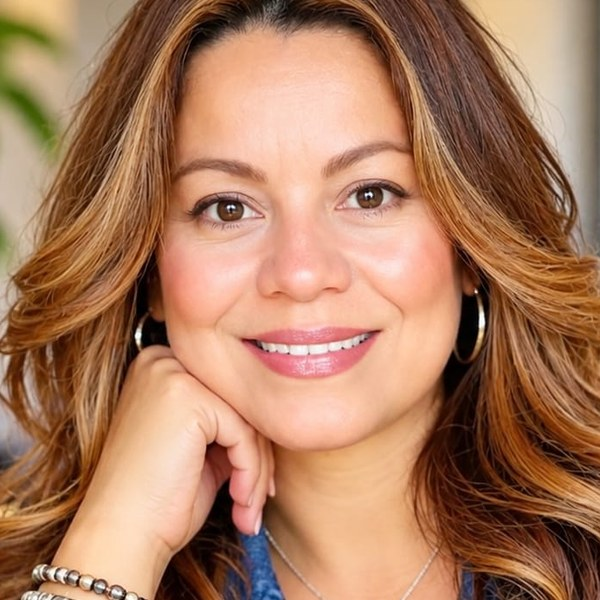
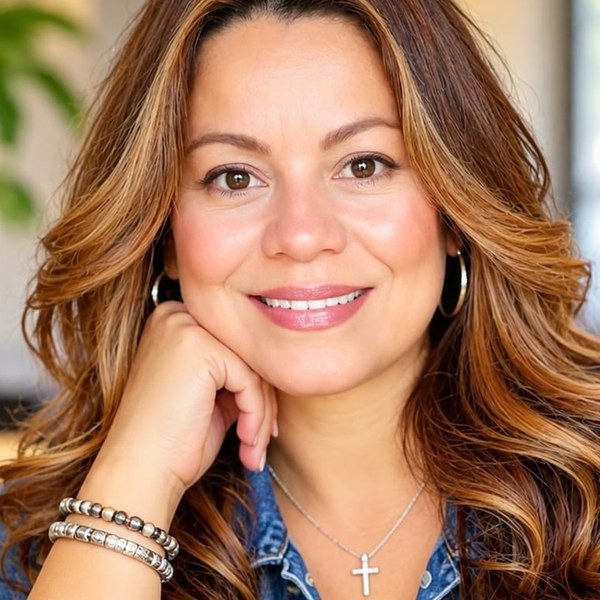
About: zoom out Tricia and Ismael photos to match Pastor Dan's head size
Claude-Session: https://claude.ai/code/session_01YXHXMRuwfuFx1RTxhNLRGp

diff --git a/about.html b/about.html
@@ -140,8 +140,8 @@ a{color:#2F4858}a:hover{color:#1E3240}
     <h2 style="margin: 0; font-family: 'Libre Baskerville', serif; font-size: 32px">Our leadership</h2>
     <div style="display: grid; grid-template-columns: repeat(auto-fit, minmax(260px, 1fr)); gap: 24px">
             <div style="display: flex; flex-direction: column; gap: 10px"><img src="assets/pastor-dan.jpg?v=3" alt="Pastor Dan Nuñez" width="600" height="600" loading="lazy" style="width: 100%; height: auto; aspect-ratio: 1 / 1; object-fit: cover; border-radius: 14px; display: block"><span style="font-family: 'Libre Baskerville', serif; font-size: 20px; font-weight: 700">Dan Nuñez</span><span style="font-size: 16px; color: #4F6676">Connection Pastor</span><span style="font-size: 15px; line-height: 1.5; color: #3B5566">Oversees Fellowship, Evangelism &amp; Missions and Community Transformation</span></div>
-      <div style="display: flex; flex-direction: column; gap: 10px"><img src="assets/pastor-tricia.jpg?v=3" alt="Pastor Tricia Persram" width="600" height="600" loading="lazy" style="width: 100%; height: auto; aspect-ratio: 1 / 1; object-fit: cover; border-radius: 14px; display: block"><span style="font-family: 'Libre Baskerville', serif; font-size: 20px; font-weight: 700">Tricia Persram</span><span style="font-size: 16px; color: #4F6676">Family Care Pastor</span><span style="font-size: 15px; line-height: 1.5; color: #3B5566">Oversees Children, Youth &amp; Next Generation and Care &amp; Compassion</span></div>
-      <div style="display: flex; flex-direction: column; gap: 10px"><img src="assets/admin-ismael.jpg?v=5" alt="Ismael Adorno, Church Administrator" width="600" height="600" loading="lazy" style="width: 100%; height: auto; aspect-ratio: 1 / 1; object-fit: cover; border-radius: 14px; display: block"><span style="font-family: 'Libre Baskerville', serif; font-size: 20px; font-weight: 700">Ismael Adorno</span><span style="font-size: 16px; color: #4F6676">Church Administrator</span><span style="font-size: 15px; line-height: 1.5; color: #3B5566">Supports our pastors and the church family through church operations and administration</span></div>
+      <div style="display: flex; flex-direction: column; gap: 10px"><img src="assets/pastor-tricia.jpg?v=5" alt="Pastor Tricia Persram" width="600" height="600" loading="lazy" style="width: 100%; height: auto; aspect-ratio: 1 / 1; object-fit: cover; border-radius: 14px; display: block"><span style="font-family: 'Libre Baskerville', serif; font-size: 20px; font-weight: 700">Tricia Persram</span><span style="font-size: 16px; color: #4F6676">Family Care Pastor</span><span style="font-size: 15px; line-height: 1.5; color: #3B5566">Oversees Children, Youth &amp; Next Generation and Care &amp; Compassion</span></div>
+      <div style="display: flex; flex-direction: column; gap: 10px"><img src="assets/admin-ismael.jpg?v=6" alt="Ismael Adorno, Church Administrator" width="600" height="600" loading="lazy" style="width: 100%; height: auto; aspect-ratio: 1 / 1; object-fit: cover; border-radius: 14px; display: block"><span style="font-family: 'Libre Baskerville', serif; font-size: 20px; font-weight: 700">Ismael Adorno</span><span style="font-size: 16px; color: #4F6676">Church Administrator</span><span style="font-size: 15px; line-height: 1.5; color: #3B5566">Supports our pastors and the church family through church operations and administration</span></div>
     </div>
   </section>
 
